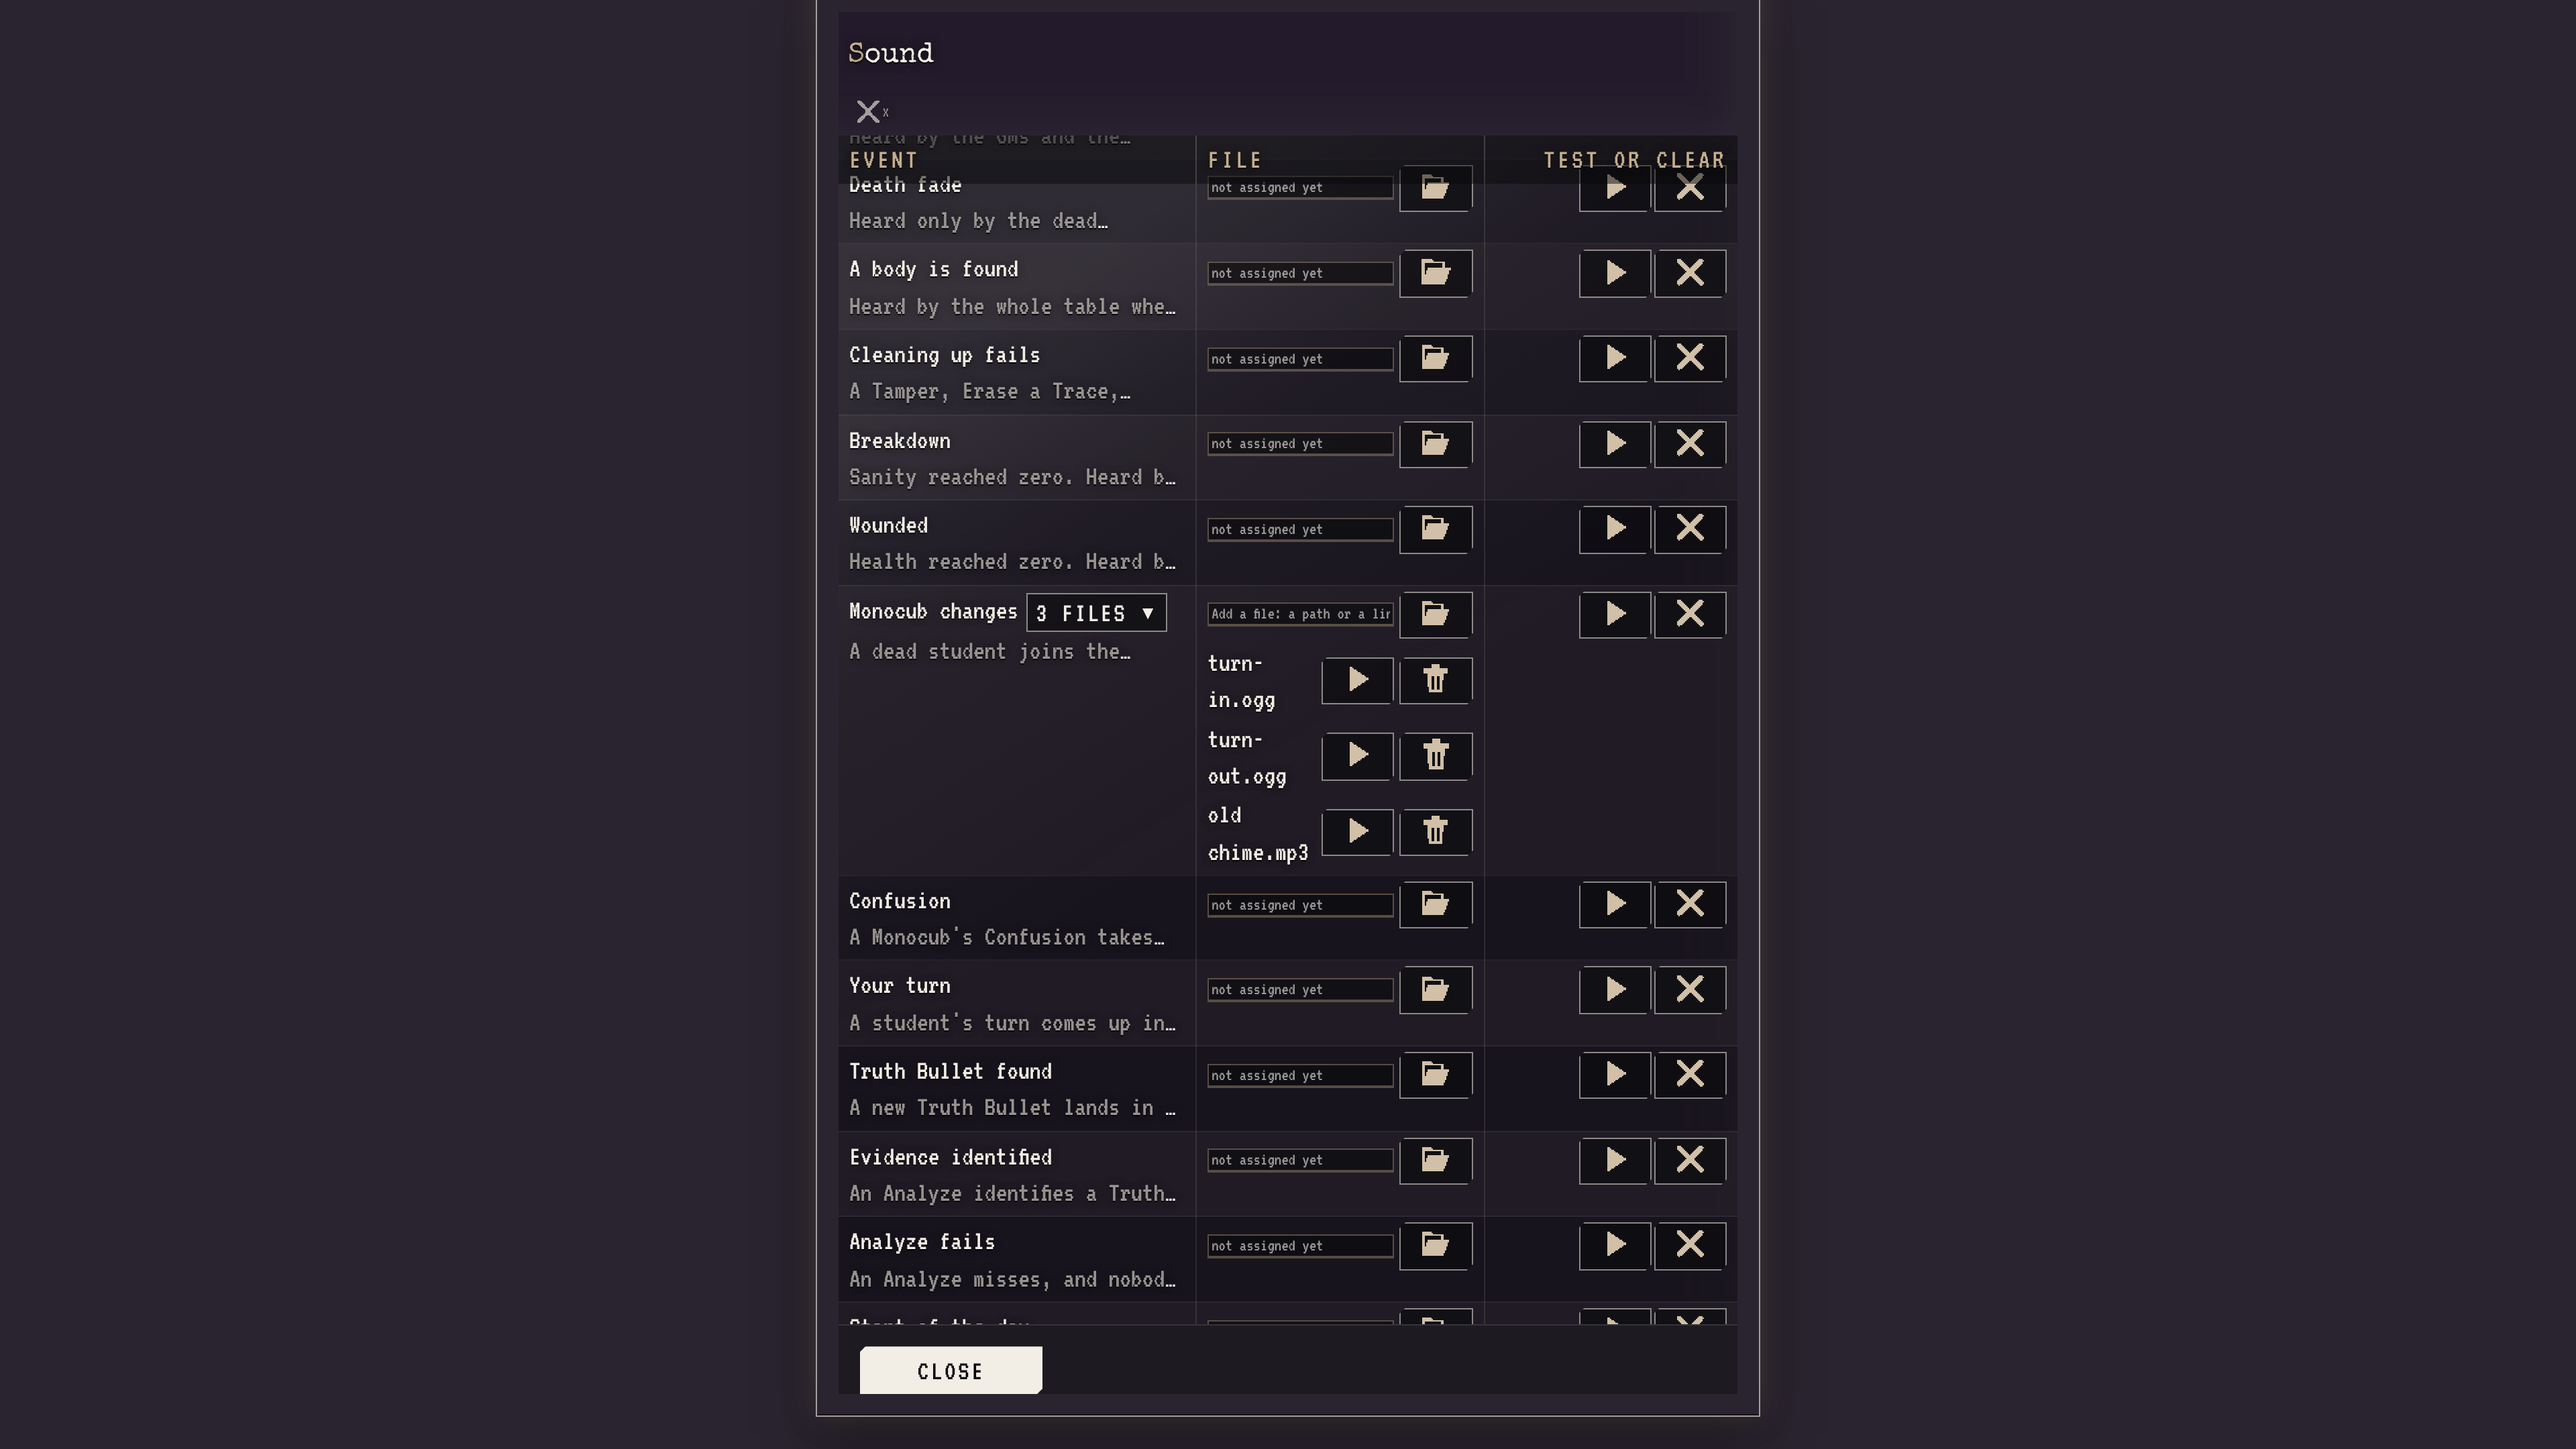
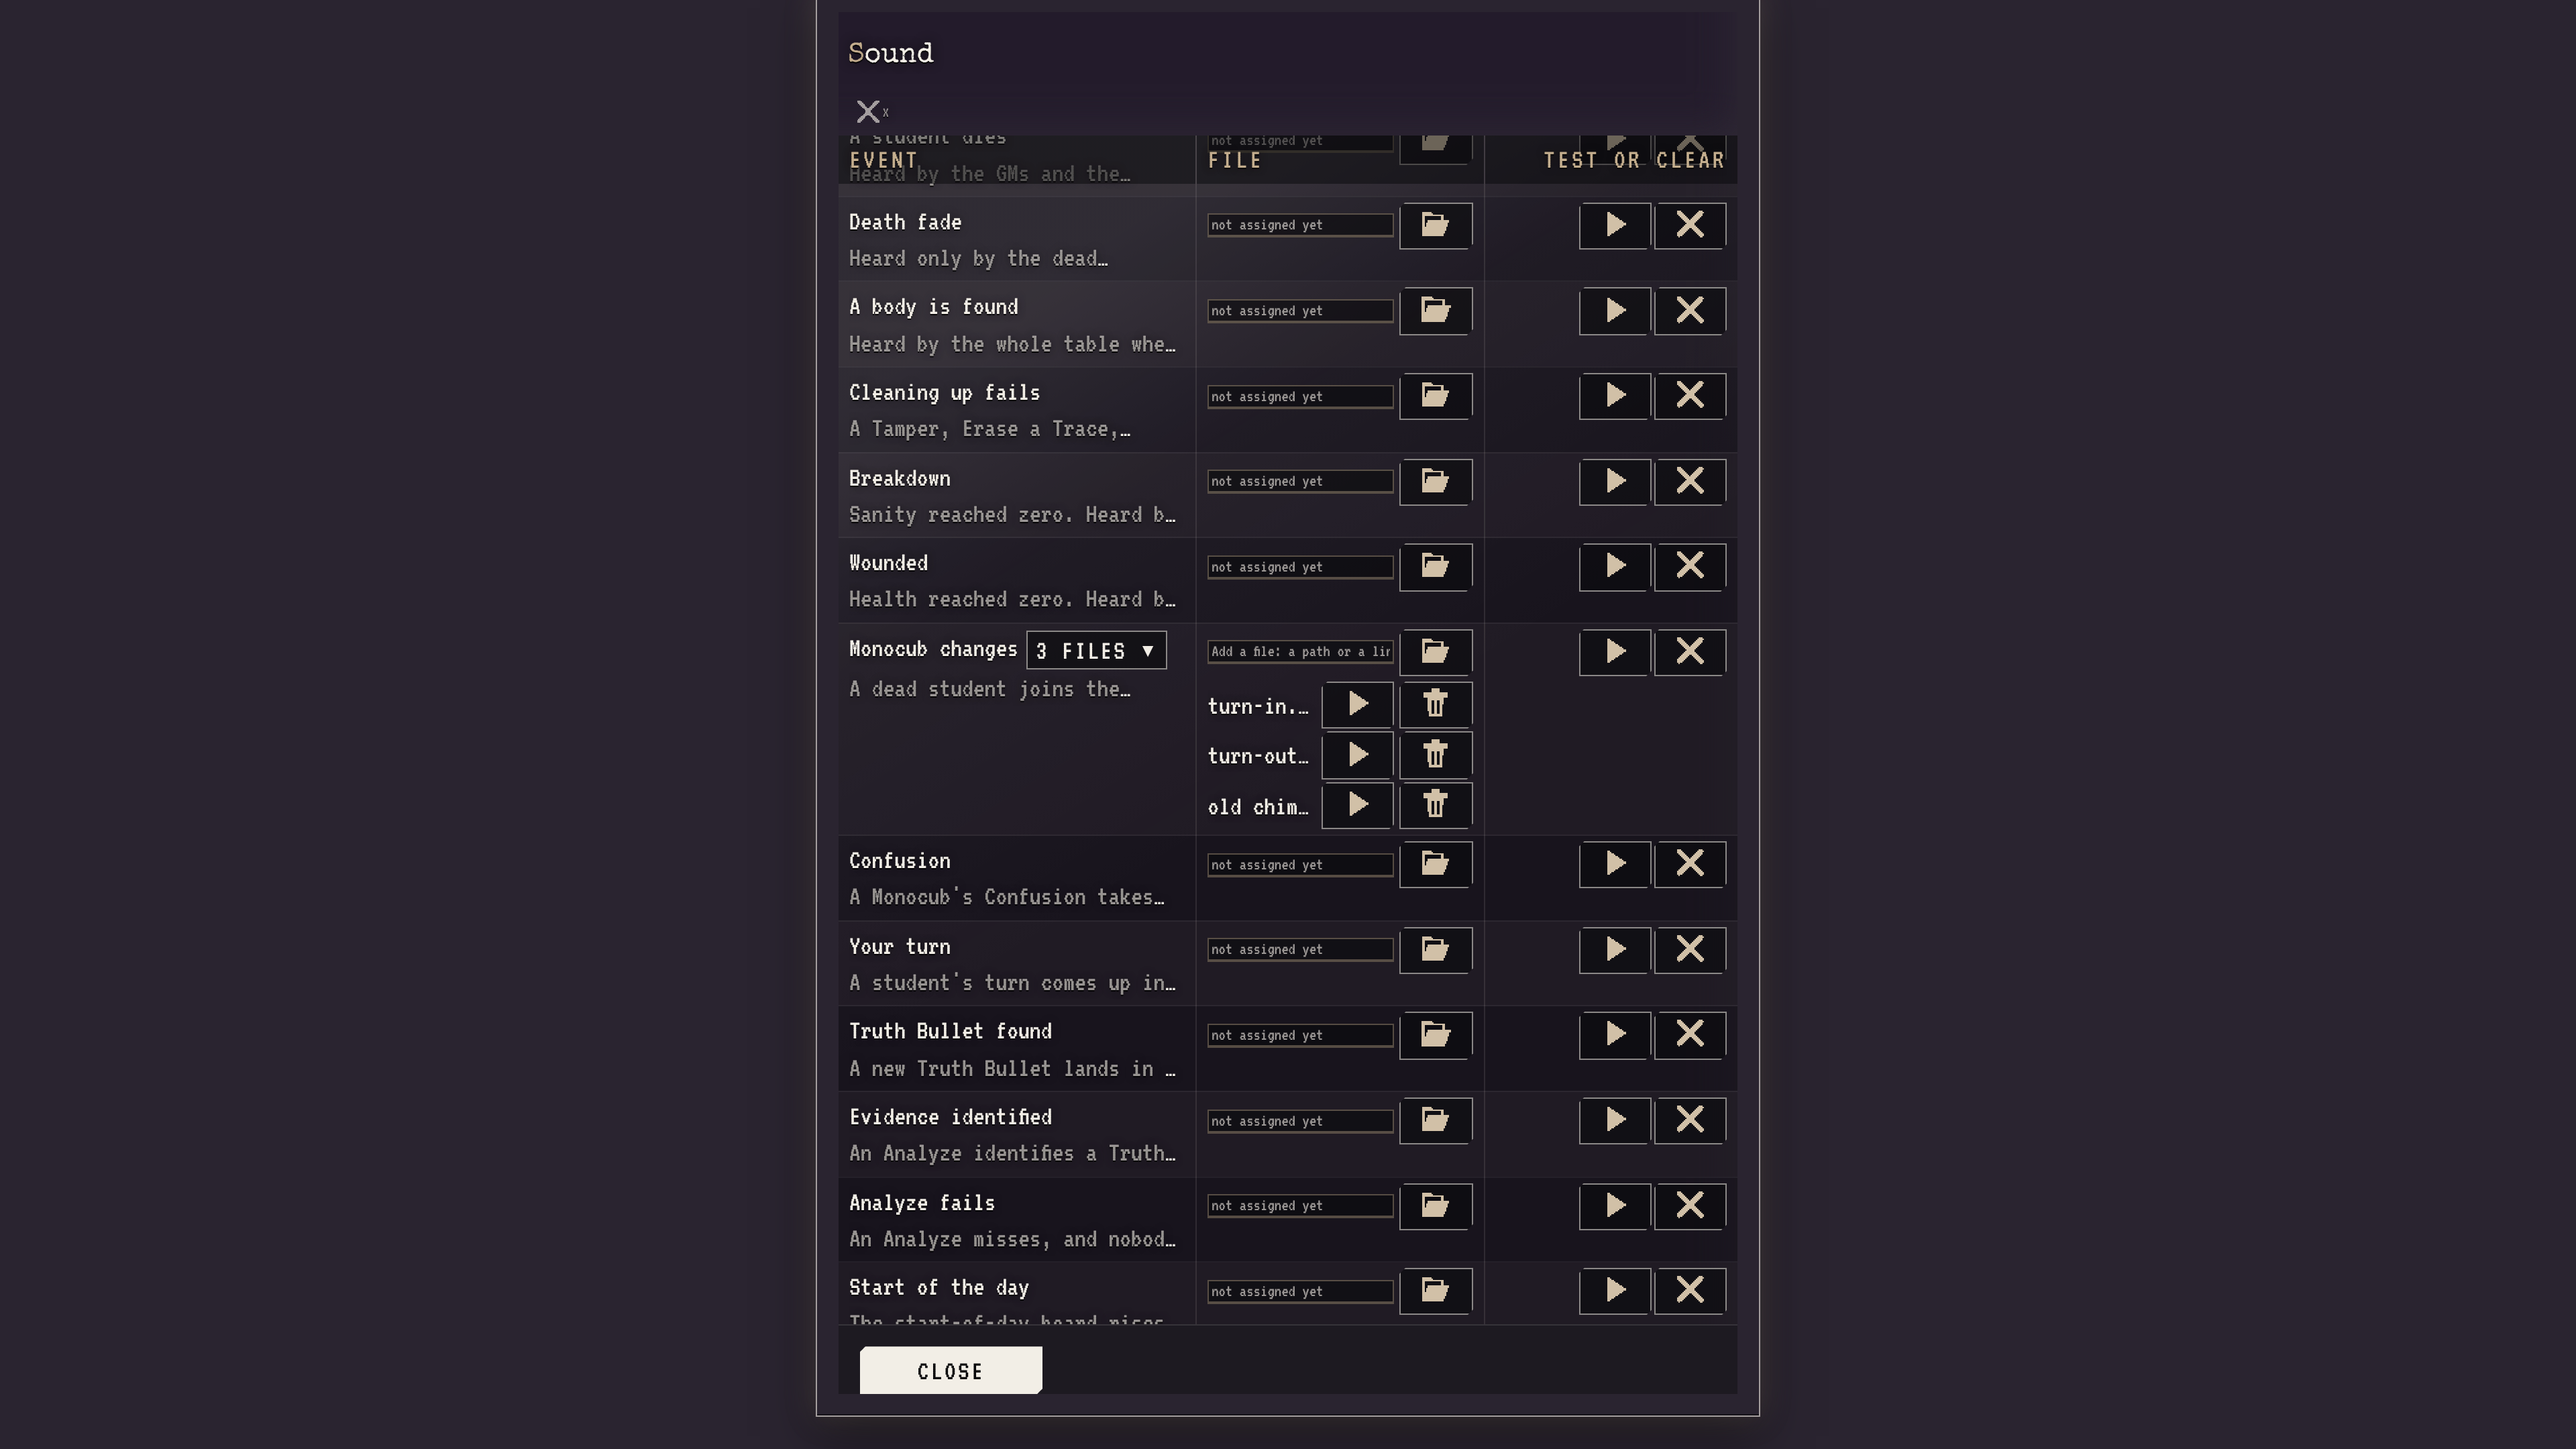
1.2.119 sound: shots with names on one line; main's Effects tab for comparison [skip ci]
Claude-Session: https://claude.ai/code/session_01QsWhUajLpPF4Q2meU8shVq

diff --git a/audit/shots/sound-119/README.md b/audit/shots/sound-119/README.md
@@ -7,3 +7,7 @@ pressed, the row scrolled into view. Both themes, 1366x768 and 1920x1080: `files
 Each file: its name (the path in its tooltip), Play (that file alone), Remove (that file alone). The box above the list
 adds a path or a link; Choose adds a file. Not shown: the hover tooltips, a redraw from another GM's change (P119-S1 holds
 it headless).
+
+Updated for the branch's later commit (one line a name, cut with an ellipsis). `main-effects-<theme>-1366x768.png`: main
+b5a29e73's Effects tab scrolled to the same row, for the two things that are not this change's - the sticky head over
+the row under it (glass) and every icon a dash (Legacy) - which read the same there.
